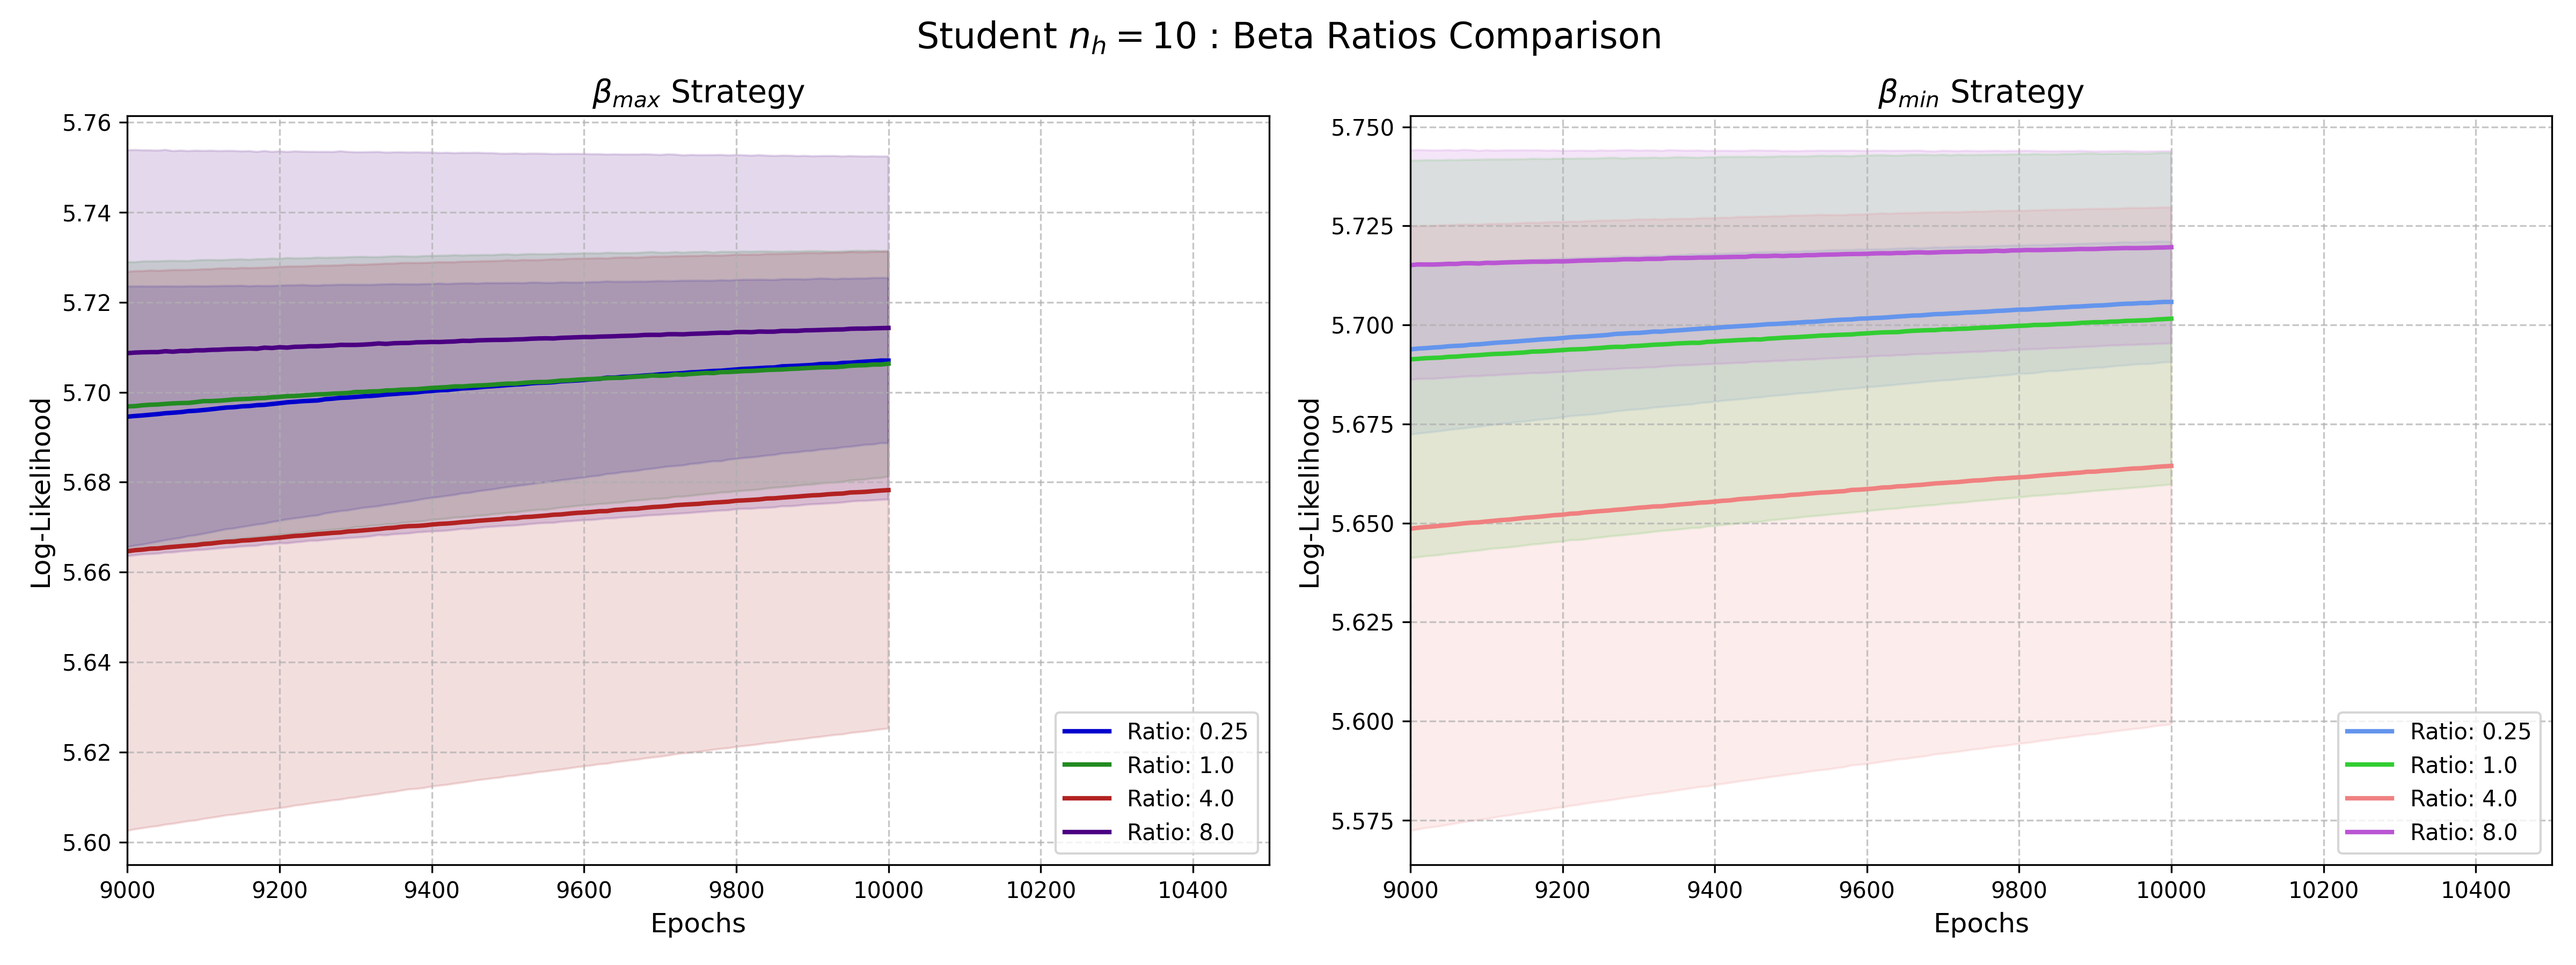
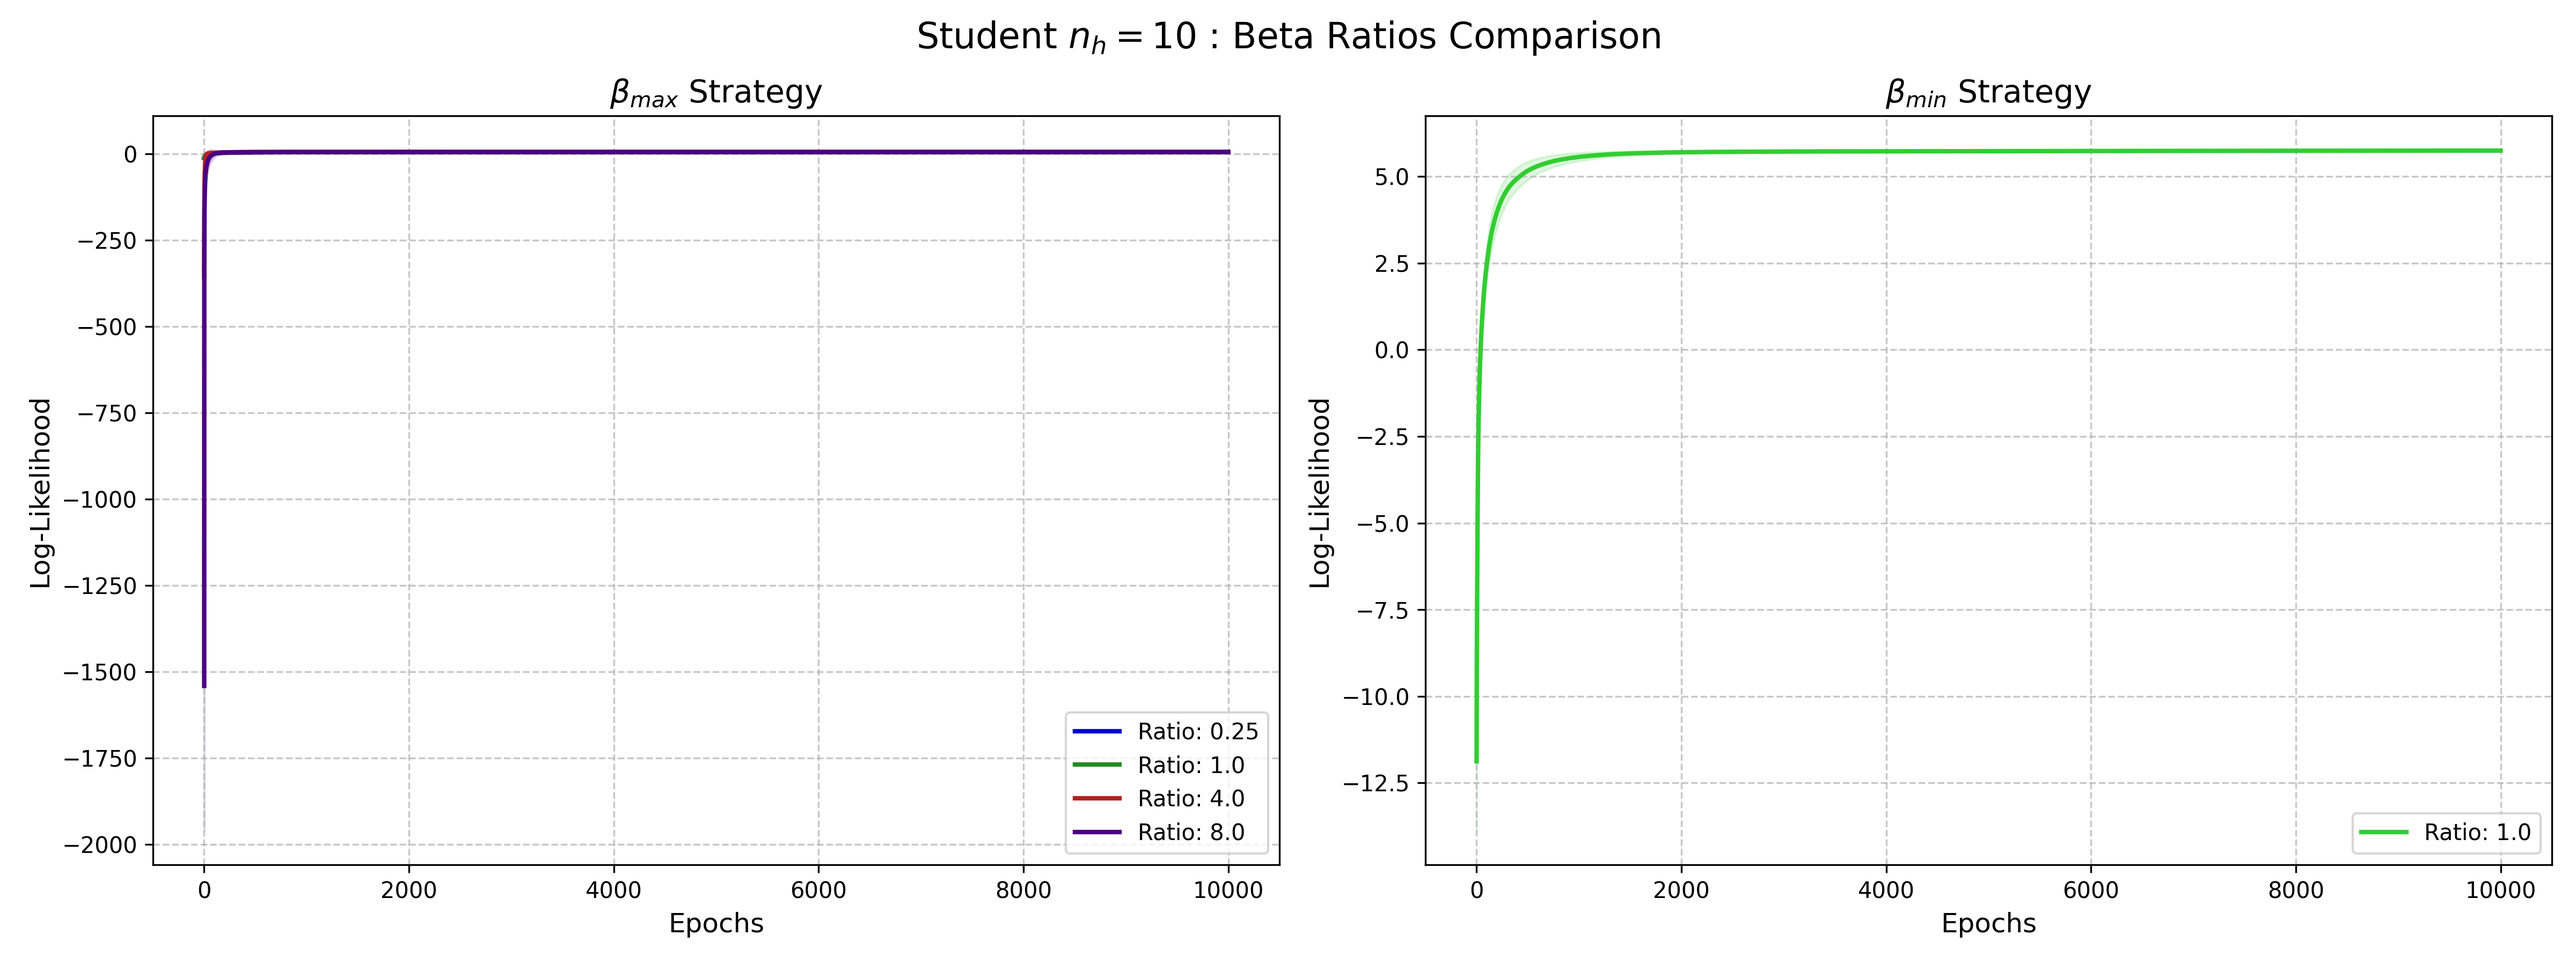
2026/5/25

diff --git a/training_GBRBM/results_visualization_c=-5/plot_ll_c=-5.py b/training_GBRBM/results_visualization_c=-5/plot_ll_c=-5.py
@@ -12,7 +12,7 @@ B_TYPES = ["max", "min"]   # 比較するβのタイプ
 B_RATIOS = [0.25, 1.0, 4.0, 8.0] # 比較するリレーション倍率
 
 # 2. ★表示範囲の指定設定 (3パターン対応)
-X_RANGE_MODE = 'from_start' #'all', 'from_start', 'to_end'の中から選択 
+X_RANGE_MODE = 'all' #'all', 'from_start', 'to_end'の中から選択 
 X_START = 9000
 X_END = 200
 Y_MARGIN = 0.05
